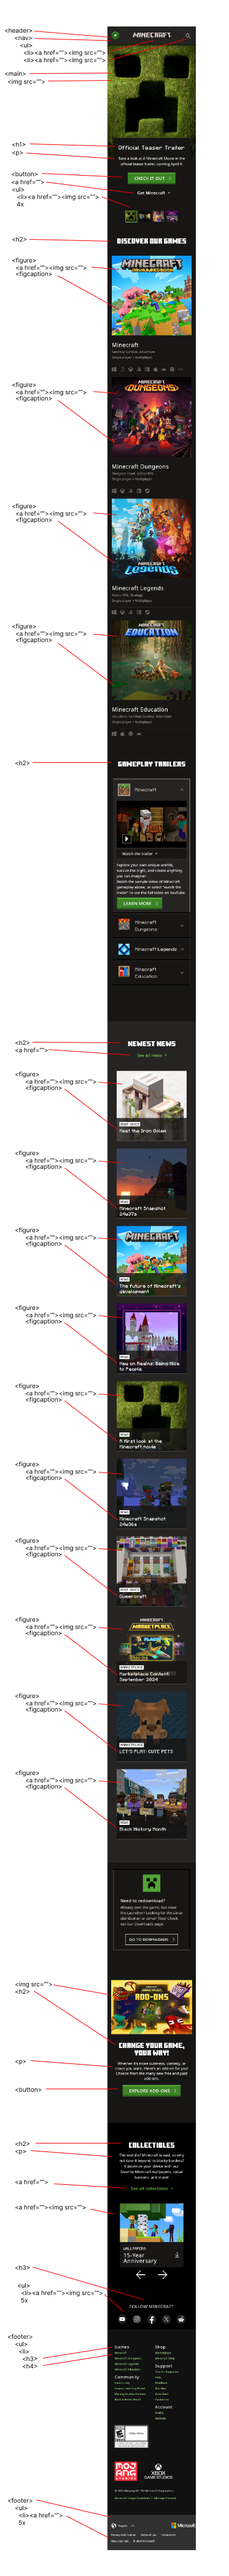
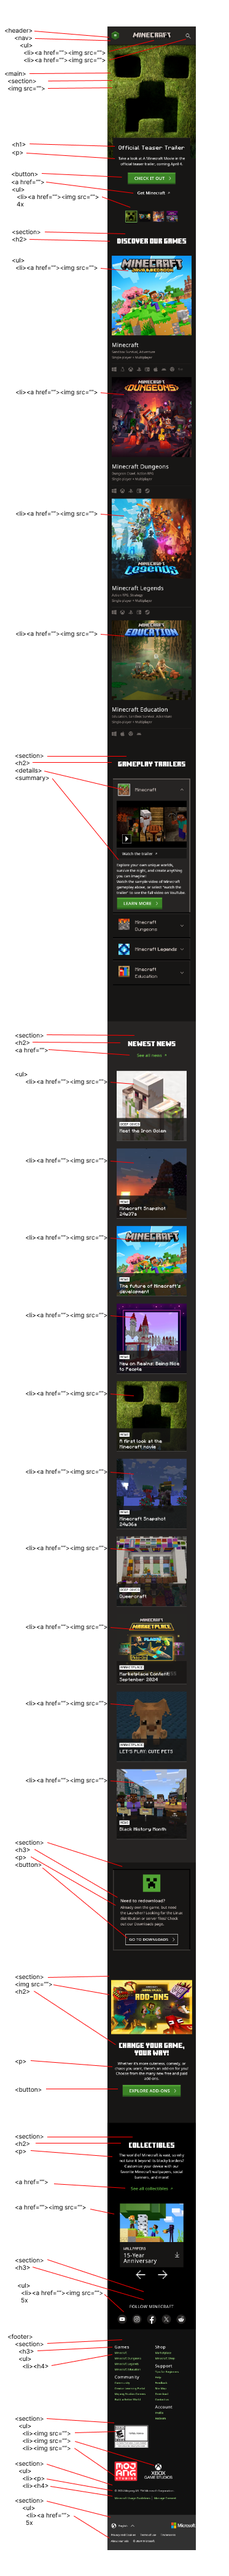
breakdown update

diff --git a/index.html b/index.html
@@ -1,5 +1,5 @@
 <!DOCTYPE html>
-<html lang="nl">
+<html lang="en">
 	
 <head>
 	<meta charset="UTF-8">
@@ -14,108 +14,88 @@
 	<header>
 		<nav>
 			<ul>
-				<li><a href=""><img src="images/" alt="Minecraft Logo"></a></li>
 				<li><a href="">SHOP</a></li>
 				<li><a href="">GAMES</a></li>	
 				<li><a href="">COMMUNITY</a></li>
 				<li><a href="">SUPPORT</a></li>
 				<li><a href="">ACCOUNT</a></li>
-				<li><a href=""><img src="images/" alt="Search Icon"></a></li>
 			</ul>
+			<a href=""><img src="images/" alt="Minecraft Logo"></a>
+			<a href=""><img src="images/" alt="Search Icon"></a>
 		</nav>
 	</header>
 
 	<main>
-		<h1>Official Teaser Trailer</h1>
-		<p>Take a look at A Minecraft Movie in the official teaser trailer, coming April 4.</p>
+		<section>
+			<h1>Official Teaser Trailer</h1>
+			<p>Take a look at A Minecraft Movie in the official teaser trailer, coming April 4.</p>
 
-		<button>CHECK IT OUT</button>
-		<a href="">Get Minecraft</a>
-		<ul>
-			<li><a href=""><img src="images/" alt="Image"></a></li>
-			<li><a href=""><img src="images/" alt="Image"></a></li>
-			<li><a href=""><img src="images/" alt="Image"></a></li>
-			<li><a href=""><img src="images/" alt="Image"></a></li>
-		</ul>
+			<button>CHECK IT OUT</button>
+			<a href="">Get Minecraft</a>
+			<ul>
+				<li><a href=""><img src="images/" alt="Image"></a></li>
+				<li><a href=""><img src="images/" alt="Image"></a></li>
+				<li><a href=""><img src="images/" alt="Image"></a></li>
+				<li><a href=""><img src="images/" alt="Image"></a></li>
+			</ul>
+		</section>
 
-		<h2>DISCOVER OUR GAMES</h2>
-		<figure>
-			<a href=""><img src="images/" alt="Minecraft page"></a>
-			<figcaption>Informatie</figcaption>
-		</figure>
-		<figure>
-			<a href=""><img src="images/" alt="Minecraft Dungeons page"></a>
-			<figcaption>Informatie</figcaption>
-		</figure>
-		<figure>
-			<a href=""><img src="images/" alt="Minecraft Legends page"></a>
-			<figcaption>Informatie</figcaption>
-		</figure>
-		<figure>
-			<a href=""><img src="images/" alt="Minecraft Education page"></a>
-			<figcaption>Informatie</figcaption>
-		</figure>
+		<section>
+			<h2>DISCOVER OUR GAMES</h2>
+			<ul>
+				<li><a href=""><img src="images/" alt="Minecraft page"></a></li>
+				<li><a href=""><img src="images/" alt="Minecraft Dungeons page"></a></li>
+				<li><a href=""><img src="images/" alt="Minecraft Legends page"></a></li>
+				<li><a href=""><img src="images/" alt="Minecraft Education page"></a></li>
+			</ul>
+		</section>
 
-		<h2>GAMEPLAY TRAILERS</h2>
+		<section>
+			<h2>GAMEPLAY TRAILERS</h2>
+			<details>
+				<summary>
 
+				</summary>
+			</details>
+		</section>
+
+		<section>
 		<h2>NEWEST NEWS</h2>
 		<a href="">See all news</a>
-		<figure>
-			<a href=""><img src="images/" alt="Minecraft Snapshot 24w37a"></a>
-			<figcaption>Minecraft Snapshot 24w37a</figcaption>
-		</figure>
-		<figure>
-			<a href=""><img src="images/" alt="The future of Minecraft's development"></a>
-			<figcaption>The future of Minecraft's development</figcaption>
-		</figure>
-		<figure>
-			<a href=""><img src="images/" alt="New on Realms: Being Nice to People"></a>
-			<figcaption>New on Realms: Being Nice to People</figcaption>
-		</figure>
-		<figure>
-			<a href=""><img src="images/" alt="A first look at the Minecraft movie"></a>
-			<figcaption>A first look at the Minecraft movie</figcaption>
-		</figure>
-		<figure>
-			<a href=""><img src="images/" alt="Minecraft Snapshot 24w36a"></a>
-			<figcaption>Minecraft Snapshot 24w36a</figcaption>
-		</figure>
-		<figure>
-			<a href=""><img src="images/" alt="Marketplace Content: September 2024"></a>
-			<figcaption>Marketplace Content: September 2024</figcaption>
-		</figure>
-		<figure>
-			<a href=""><img src="images/" alt="Queercraft"></a>
-			<figcaption>Queercraft</figcaption>
-		</figure>
-		<figure>
-			<a href=""><img src="images/" alt="LET'S PLAY: CUTE PETS"></a>
-			<figcaption>LET'S PLAY: CUTE PETS</figcaption>
-		</figure>
-		<figure>
-			<a href=""><img src="images/" alt="Black History Month"></a>
-			<figcaption>Black History Month</figcaption>
-		</figure>
-		<figure>
-			<a href=""><img src="images/" alt="Taking Inventory: Wind Charge"></a>
-			<figcaption>Taking Inventory: Wind Charge</figcaption>
-		</figure>
+			<ul>
+				<li><a href=""><img src="images/" alt="Minecraft Snapshot 24w37a"></a></li>
+				<li><a href=""><img src="images/" alt="The future of Minecraft's development"></a></li>
+				<li><a href=""><img src="images/" alt="New on Realms: Being Nice to People"></a></li>
+				<li><a href=""><img src="images/" alt="A first look at the Minecraft movie"></a></li>
+				<li><a href=""><img src="images/" alt="Minecraft Snapshot 24w36a"></a></li>
+				<li><a href=""><img src="images/" alt="Marketplace Content: September 2024"></a></li>
+				<li><a href=""><img src="images/" alt="Queercraft"></a></li>
+				<li><a href=""><img src="images/" alt="LET'S PLAY: CUTE PETS"></a></li>
+				<li><a href=""><img src="images/" alt="Black History Month"></a></li>
+				<li><a href=""><img src="images/" alt="Taking Inventory: Wind Charge"></a></li>
+			</ul>
+		</section>
 
-		<h3>Need to redownload?</h3>
-		<p>Already own the game, but need the Launcher? Looking for the Linux distribution or server files? Check out our Downloads page.</p>
-		<button>GO TO DOWNLOADS</button>
+		<section>
+			<h3>Need to redownload?</h3>
+			<p>Already own the game, but need the Launcher? Looking for the Linux distribution or server files? Check out our Downloads page.</p>
+			<button>GO TO DOWNLOADS</button>
+		</section>
 
+	<section>
 		<img src="images/" alt="Minecraft Marketplace Add-ons">
 		<h2>CHANGE YOUR GAME,YOUR WAY!</h2>
 		<P>Whether it's more cuteness, comedy, or chaos you want, there's an add-on for you! Choose from the many new free and paid add-ons.</P>
 		<button>EXPLORE ADD-ONS</button>
+	</section>
 
+	<section>
 		<h2>COLLECTIBLES</h2>
 		<p>The world of Minecraft is vast, so why not take it beyond its blocky borders? 
 			Customize your device with our favorite Minecraft wallpapers, social banners, and more!</p>
 		<a href="">See all collectibles</a>
 		<img src="images/" alt="15-year Anniversary">
-		
+	</section>
 		<h3>FOLLOW MINECRAFT</h3>
 		<ul>
 			<li><a href=""><img src="images/" alt="YouTube"></a></li>
@@ -127,46 +107,49 @@
 	</main>
 
 	<footer>
-		<ul>
-			<li>
-				<h3>Games</h3>
-				<h4>Minecraft</h4>
-				<h4>Minecraft Dungeons</h4>
-				<h4>Minecraft Legends</h4>
-				<h4>Minecraft Education</h4>
-				<h3>Community</h3>
-				<h4>Community</h4>
-				<h4>Creator Learning Portal</h4>
-				<h4>Mojang Studios Careers</h4>
-				<h4>Build a Better World</h4>
-			</li>
-		</ul>
-
-		<ul>
-			<li>
-				<h3>Shop</h3>
-				<h4>Marketplace</h4>
-				<h4>Minecraft Shop</h4>
-				<h3>Support</h3>
-				<h4>Tips for Beginners</h4>
-				<h4>Help</h4>
-				<h4>Feedback</h4>
-				<h4>Site Map</h4>
-				<h4>Download</h4>
-				<h4>Contact us</h4>
-				<h3>Account</h3>
-				<h4>Profile</h4>
-				<h4>Redeem</h4>
-			</li>
-		</ul>
+		<section>
+			<h3>Games</h3>
+			<ul>
+				<li><h4>Minecraft</h4></li>
+				<li><h4>Minecraft Dungeons</h4></li>
+				<li><h4>Minecraft Legends</h4></li>
+				<li><h4>Minecraft Education</h4></li>
+			</ul>
+			<h3>Community</h3>
+			<ul>
+				<li><h4>Community</h4></li>
+				<li><h4>Creator Learning Portal</h4></li>
+				<li><h4>Mojang Studios Careers</h4></li>
+				<li><h4>Build a Better World</h4></li>
+			</ul>
+		</section>
+		<section>
+			<h3>Shop</h3>
+			<ul>
+				<li><h4>Marketplace</h4></li>
+				<li><h4>Minecraft Shop</h4></li>
+			</ul>
+			<h3>Support</h3>
+			<ul>
+				<li><h4>Tips for Beginners</h4></li>
+				<li><h4>Help</h4></li>
+				<li><h4>Feedback</h4></li>
+				<li><h4>Site Map</h4></li>
+				<li><h4>Download</h4></li>
+				<li><h4>Contact us</h4></li>
+			</ul>
+			<h3>Account</h3>
+			<ul>
+				<li><h4>Profile</h4></li>
+				<li><h4>Redeem</h4></li>
+			</ul>
+		</section>
 	</footer>
 
 	<ul>
-		<li>
-			<p>© 2024 Mojang AB. TM Microsoft Corporation.</p>
-			<h4>Minecraft Usage Guidelines</h4>
-			<h4>Manage Consent</h4>
-		</li>
+		<li><p>© 2024 Mojang AB. TM Microsoft Corporation.</p></li>
+		<li><h4>Minecraft Usage Guidelines</h4></li>
+		<li><h4>Manage Consent</h4></li>
 	</ul>
 
 	<footer>
